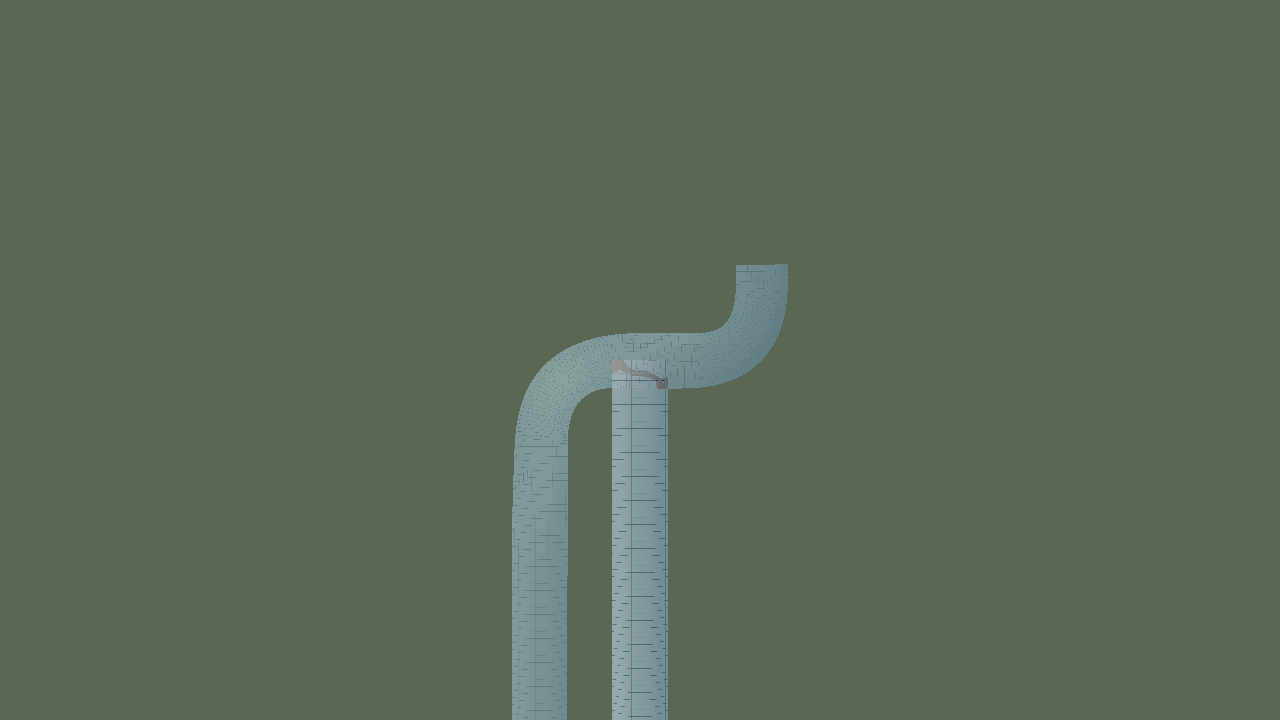
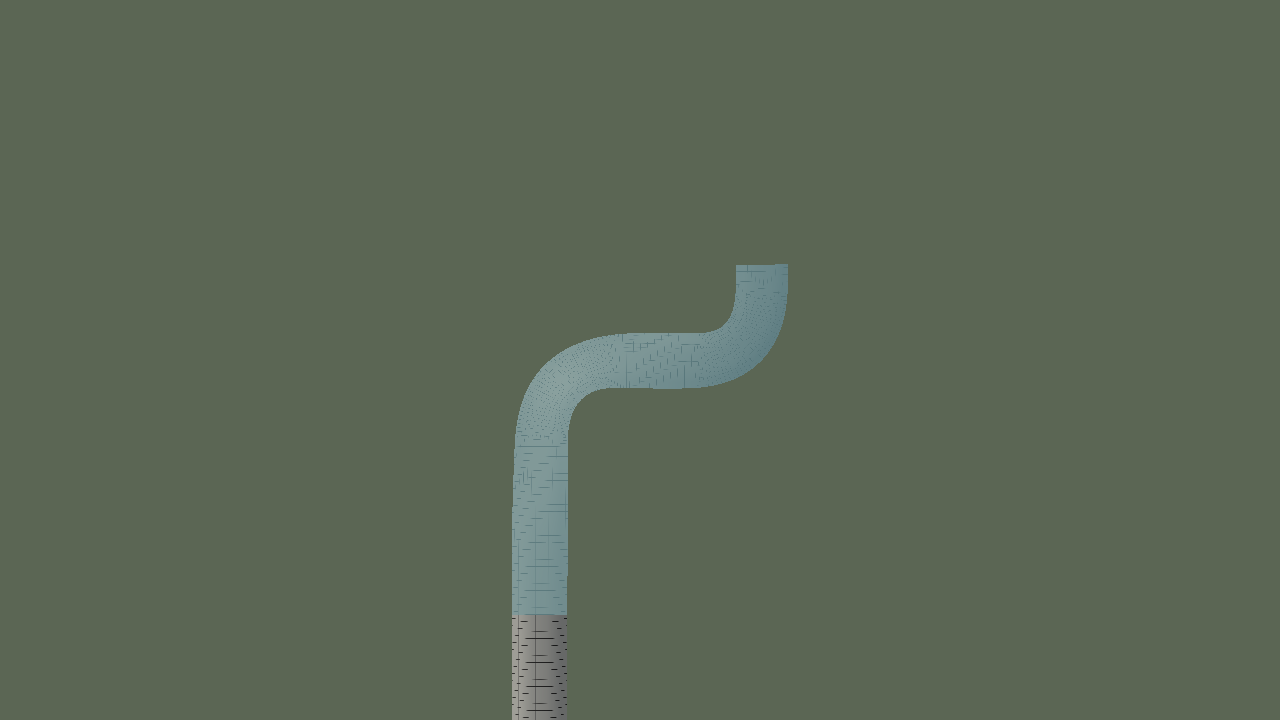
L229 addendum, pane A (L): the picture fault was the render framing; his two projects' undo files carry the typed numbers
Claude-Session: https://claude.ai/code/session_01VfXiVUfSFUgXKGxq8cWziQ

Changed region(s): [[0.375, 0.5194, 0.5312, 1.0]]

diff --git a/exo_memory/handback/p-l229-A_2026-11-25_evidence/made_files.js b/exo_memory/handback/p-l229-A_2026-11-25_evidence/made_files.js
@@ -1,0 +1,122 @@
+// made_files.js (pane A, L229 items 1-2): give his two saved projects' undo files their typed values.
+//   node made_files.js stage  <stage dir>        lay each project through the BRANCH build's panel (typed as he would), compare to the track file on disk byte for byte, save into <stage dir>
+//   node made_files.js prove  <app data dir>     open each project from there with the branch build, undo, print the boxes; Extend; compare bytes with the file
+//   node made_files.js old    <app data dir>     open each project with the INSTALLED build (27e2084, extracted by git archive), say what it does
+// Nothing here writes into <app data dir>.
+'use strict';
+const fs = require('fs'), os = require('os'), path = require('path'), cp = require('child_process'), crypto = require('crypto');
+const T = process.env.TREE || 'C:/Consonance/t180-wt-ghost';
+const D = require(T + '/src/core/document.js');
+const { createCoreShell } = require(T + '/app/core/coreshell.js');
+const sha = (t) => crypto.createHash('sha256').update(t).digest('hex');
+class El {
+  constructor(tag, doc) { this.tagName = tag.toUpperCase(); this.ownerDocument = doc; this.children = []; this.attrs = {}; this.style = {}; this._text = ''; this.listeners = {}; this.value = ''; this.checked = false; this.parent = null; }
+  append(...k) { for (const c of k) { if (c == null) continue; const n = typeof c === 'string' ? Object.assign(new El('#text', this.ownerDocument), { _text: c }) : c; n.parent = this; this.children.push(n); } }
+  replaceChildren(...k) { for (const c of this.children) c.parent = null; this.children = []; this.append(...k); }
+  remove() { if (this.parent) { this.parent.children = this.parent.children.filter((c) => c !== this); this.parent = null; } }
+  setAttribute(k, v) { this.attrs[k] = String(v); if (k === 'id') this.ownerDocument.ids[v] = this; }
+  getAttribute(k) { return this.attrs[k]; }
+  set textContent(t) { this._text = String(t); this.children = []; }
+  get textContent() { return this._text + this.children.map((c) => c.textContent).join(''); }
+  addEventListener(e, f, o) { (this.listeners[e] = this.listeners[e] || []).push({ f, capture: !!(o === true || (o && o.capture)) }); }
+  removeEventListener(e, f) { this.listeners[e] = (this.listeners[e] || []).filter((x) => x.f !== f); }
+  getBoundingClientRect() { return { left: 0, top: 0, width: this.clientWidth || 0, height: this.clientHeight || 0 }; }
+  get isConnected() { return true; }
+  setPointerCapture() {}
+  all() { return [this, ...this.children.flatMap((c) => (c.all ? c.all() : []))]; }
+  fire(type, init) { let stopped = false; const ev = { type, ...init, preventDefault() {}, stopPropagation() { stopped = true; }, stopImmediatePropagation() { stopped = true; } };
+    const ls = (this.listeners[type] || []).slice(), order = ls.filter((l) => l.capture).concat(ls.filter((l) => !l.capture));
+    let n = 0; for (const l of order) { if (stopped) break; n++; l.f(ev); } return n; }
+}
+function fakeWindow() {
+  const doc = { ids: {}, listeners: {}, createElement: (t) => new El(t, doc) };
+  doc.getElementById = (id) => doc.ids[id] || null;
+  doc.addEventListener = (e, f) => { (doc.listeners[e] = doc.listeners[e] || []).push(f); };
+  doc.removeEventListener = (e, f) => { doc.listeners[e] = (doc.listeners[e] || []).filter((x) => x !== f); };
+  doc.dispatchEvent = (ev) => { for (const f of (doc.listeners[ev.type] || []).slice()) f(ev); return true; };
+  const frames = [];
+  const win = { CustomEvent: class { constructor(type, init = {}) { this.type = type; this.detail = init.detail; } }, Option: class { constructor(t, v) { this.textContent = t; this.value = v; } },
+    requestAnimationFrame: (f) => { frames.push(f); return frames.length; }, cancelAnimationFrame: () => {}, setTimeout: () => 0, clearTimeout: () => {} };
+  doc.defaultView = win;
+  return { doc, win, tick: () => { for (let i = 0; i < 3; i++) { const fs = frames.splice(0); for (const f of fs) f(0); } } };
+}
+const panelMod = require(T + '/app/core/panel.js');
+function wire(p) {
+  const { root, shell } = p;
+  p.panel = panelMod.mount(root, shell);
+  const label = (text) => root.all().find((e) => e.tagName === 'LABEL' && e.children[0] && e.children[0].textContent === text);
+  const field = (text) => { const l = label(text); if (!l) throw new Error(`no "${text}" field`); return l.children[1]; };
+  const byAria = (a) => { const f = root.all().find((e) => e.attrs && e.attrs['aria-label'] === a); if (!f) throw new Error(`no element labelled "${a}"`); return f; };
+  Object.assign(p, { field, byAria, type: (t, v) => { const f = field(t); f.value = String(v); f.oninput(); }, set: (f, v) => { f.value = String(v); (f.oninput || f.onchange)(); }, tick2: (b, on) => { b.checked = on; b.onchange(); },
+    button: (t) => root.all().find((e) => e.tagName === 'BUTTON' && e.textContent === t) });
+  return p;
+}
+// one piece typed as he would (pane O's route.js `piece`, without removing the rows afterwards: Undo must give them back)
+function typePiece(p, s) {
+  p.set(p.byAria('turn and climb as'), s.as || 'corner');
+  p.type('length m', s.L); p.type((s.as || 'corner') === 'rate' ? 'turn °/100m' : 'turn °', s.turn === undefined ? '' : s.turn); p.type('bank °', s.bank === undefined ? '' : s.bank);
+  if (s.flow) { p.tick2(p.byAria('bank flows through its marks'), true); p.set(p.byAria('bank at'), s.at === undefined ? '' : s.at); }
+  for (const [f, then, from] of s.rows || []) p.panel.secondAdd(f, { then: String(then), from: String(from) });
+}
+const PROJECTS = {
+  'Smooth S as driven L': [{ L: 300, turn: 0, bank: -20, flow: true, at: 80, rows: [['turn', 92, 80], ['turn', -91, 200], ['bank', -27, 145], ['bank', 0, 200], ['bank', 25, 255], ['bank', 26, 300]] }, { L: 150, bank: 0, flow: true, at: 100 }],
+  'Smooth S flow L': [{ L: 200, turn: 176, bank: -27, flow: true, at: 55, rows: [['turn', -176, 80], ['bank', 0, 112], ['bank', 26, 157]] }, { L: 150, bank: 0, flow: true, at: 100 }],
+};
+const dir = (a, sub) => path.join(a, sub);
+function folderStorage(app, write) {
+  const f = (n, e) => path.join(app, 'tracks', n + e);   // the shell names its files eq-<name> itself
+  return { openDoc: async (n) => fs.readFileSync(f(n, '.t180track'), 'utf8'), openUndo: async (n) => (fs.existsSync(f(n, '.t180undo')) ? fs.readFileSync(f(n, '.t180undo'), 'utf8') : null),
+    saveDoc: async (n, t) => { if (!write) throw new Error('read only'); fs.mkdirSync(path.join(app, 'tracks'), { recursive: true }); fs.writeFileSync(f(n, '.t180track'), t); },
+    saveUndo: async (n, t) => { if (!write) throw new Error('read only'); fs.mkdirSync(path.join(app, 'tracks'), { recursive: true }); fs.writeFileSync(f(n, '.t180undo'), t); },
+    savePiece: async () => {}, openPiece: async () => '', listPieces: async () => [], deletePiece: async () => {}, listDocs: async () => [],
+    saveAutosave: async () => {}, clearAutosave: async () => {}, openAutosave: async () => null, backupDoc: async () => {}, listBackups: async () => [], docSavedAt: async () => null };
+}
+const [mode, appArg, extra] = process.argv.slice(2);
+(async () => {
+  if (mode === 'stage') {
+    for (const [name, specs] of Object.entries(PROJECTS)) {
+      const st = folderStorage(appArg, true), { doc, tick } = fakeWindow(); const root = doc.createElement('div');
+      const shell = await createCoreShell({ brushFn: null, storage: st, autosaveMs: 0 });
+      // the lead is the file's own first piece (its document is named 'flow', which a fresh shell's is not): a seed holding just it, then the rest is typed
+      const diskDoc = D.parse(fs.readFileSync(path.join(extra, 'tracks', 'eq-' + name + '.t180track'), 'utf8')); fs.mkdirSync(path.join(appArg, 'tracks'), { recursive: true });
+      fs.writeFileSync(path.join(appArg, 'tracks', 'eq-seed.t180track'), D.serialize({ ...diskDoc, pieces: diskDoc.pieces.slice(0, 1), nextId: 2 })); await shell.open('seed');
+      const p = wire({ doc, tick, root, shell, calls: [] }); for (const s of specs) { typePiece(p, s); p.button('Extend').onclick(); }
+      const disk = fs.readFileSync(path.join(extra, 'tracks', 'eq-' + name + '.t180track'), 'utf8');
+      console.log(`${name}: laid ${D.parse(shell.text()).pieces.length} pieces; sha256 laid ${sha(shell.text()).slice(0, 12)} | file on disk ${sha(disk).slice(0, 12)} | same bytes: ${shell.text() === disk}`);
+      if (shell.text() !== disk) { fs.writeFileSync(path.join(os.tmpdir(), 'laid_' + name.replace(/ /g, '_') + '.txt'), shell.text()); const a = D.parse(shell.text()).pieces, b = D.parse(disk).pieces; console.log('  pieces equal by JSON:', a.map((x, i) => JSON.stringify(x) === JSON.stringify(b[i]))); throw new Error('not the same bytes; stop'); }
+      await shell.save(name);
+    }
+  }
+  if (mode === 'prove') {
+    for (const name of Object.keys(PROJECTS)) {
+      const disk = fs.readFileSync(path.join(appArg, 'tracks', 'eq-' + name + '.t180track'), 'utf8'), want = D.parse(disk).pieces;
+      for (const undos of [1, 2]) {   // 1: the ease-out comes back; 2: the S comes back (the ease-out goes with it)
+        const st = folderStorage(appArg, false), { doc, tick } = fakeWindow(); const root = doc.createElement('div');
+        const shell = await createCoreShell({ brushFn: null, storage: st, autosaveMs: 0 }); await shell.open(name);
+        const p = wire({ doc, tick, root, shell, calls: [] }); const sent = [], real = shell.extend; shell.extend = (o) => { sent.push(o); return real(o); };
+        if (undos === 1) console.log(name + ': opened ' + want.length + ' pieces, text = file: ' + (shell.text() === disk));
+        for (let k = 0; k < undos; k++) { shell.undo(); tick(); }
+        const val = (t) => { try { return p.field(t).value; } catch (e) { return '?'; } };
+        const rows = p.root.all().filter((e) => e.tagName === 'LABEL' && e.children[0] && /^(then|from|turn change|bank change)/.test(e.children[0].textContent || '')).length;
+        console.log('  after ' + undos + ' undo(s): ' + D.parse(shell.text()).pieces.length + ' pieces; boxes length ' + val('length m') + ', turn ' + val('turn °') + ', bank ' + val('bank °') + '; flow ' + p.byAria('bank flows through its marks').checked + ' at ' + p.byAria('bank at').value);
+        p.button('Extend').onclick();
+        const laid = D.parse(shell.text()).pieces, k = laid.length - 1;
+        console.log('  Extend lays piece ' + (k + 1) + ': identical to the file piece ' + (k + 1) + ': ' + (JSON.stringify(laid[k]) === JSON.stringify(want[k])) + '; sent ' + JSON.stringify(sent.at(-1)).slice(0, 700));
+      }
+    }
+  }
+  if (mode === 'old') {
+    const dirT = fs.mkdtempSync(path.join(os.tmpdir(), 'inst-27e2084-')); const tarF = path.join(dirT, 'i.tar');
+    try {
+      cp.execFileSync('git', ['-C', T, 'archive', '--format=tar', '-o', tarF, '27e2084', 'app', 'src', 'tools', 'package.json']); cp.execFileSync('tar', ['-xf', 'i.tar'], { cwd: dirT });
+      const rel = require(path.join(dirT, 'app/core/coreshell.js'));
+      for (const name of Object.keys(PROJECTS)) {
+        const side = JSON.parse(fs.readFileSync(path.join(appArg, 'tracks', 'eq-' + name + '.t180undo'), 'utf8'));
+        const shell = await rel.createCoreShell({ brushFn: null, storage: folderStorage(appArg, false), autosaveMs: 0 }); await shell.open(name);
+        const s = shell.getState(), disk = fs.readFileSync(path.join(appArg, 'tracks', 'eq-' + name + '.t180track'), 'utf8');
+        console.log(name + ': undo file keys [' + Object.keys(side).join(',') + '], made slots ' + (side.made ? side.made.filter(Boolean).length : 0) + '; INSTALLED build opened: ' + D.parse(shell.text()).pieces.length + ' pieces, text = file ' + (shell.text() === disk) + ', history past ' + s.history.past.length + ' future ' + s.history.future.length + ', message ' + JSON.stringify(s.message));
+        shell.undo(); shell.undo(); shell.redo(); console.log('  undo, undo, redo works: pieces now ' + D.parse(shell.text()).pieces.length);
+      }
+    } finally { fs.rmSync(dirT, { recursive: true, force: true }); }
+  }
+})().catch((e) => { console.error('FAILED', e.stack); process.exit(1); });

diff --git a/exo_memory/handback/p-l229-A_2026-11-25_evidence/render3.js b/exo_memory/handback/p-l229-A_2026-11-25_evidence/render3.js
@@ -1,0 +1,72 @@
+// render3.js (L229 pane A: render2.js with ONE camera from docs[0]; the original framed each document on its own road). Was render2.js: render saved attempts with the builder's OWN road mesh (src/geom/mesh.js buildMesh: the cup, the width, the cells the export
+// writes) through the look-match rasteriser (src/lookmatch/raster.js renderView, the preview's shading and fog). Two views per attempt:
+//   view  his screenshot's chase view: 55 m behind measured d 400 and 42 m up, aimed at d 530, 62° across (as render.js, the last lap)
+//   top   from above, the run-in pointing up the image, one scale for every attempt (SCALE m per image height)
+// The default export carries no texture (src/doc/textures.js: "v1 ships no textures of its own"), so the road wears t180b_road's
+// plain colour, as it would in AC. usage: node render2.js <t180 tree> <docs.json> <out dir> [prefix] [mirror 0|1]
+require('os').setPriority(process.pid, require('os').constants.priority.PRIORITY_BELOW_NORMAL);
+const path = require('path'), fs = require('fs'), zlib = require('zlib');
+const [tree, docsFile, outDir, prefix = 'r', mirrorArg = '0'] = process.argv.slice(2), MIRROR = mirrorArg === '1';
+const R = (p) => require(path.join(tree, p)), A = R('src/core/adapter.js'), { buildMesh } = R('src/geom/mesh.js'), { renderView } = R('src/lookmatch/raster.js');
+const { encodePng } = R('src/texture/png.js');
+const LEAD = 300, D0 = 340, W = 1280, H = 720, SCALE = +(process.env.SCALE || 420);
+const sub = (a, b) => [a[0] - b[0], a[1] - b[1], a[2] - b[2]], add = (a, b, k = 1) => [a[0] + b[0] * k, a[1] + b[1] * k, a[2] + b[2] * k];
+const mul = (a, b) => { const o = new Array(16).fill(0); for (let i = 0; i < 4; i++) for (let j = 0; j < 4; j++) for (let k = 0; k < 4; k++) o[i * 4 + j] += a[i * 4 + k] * b[k * 4 + j]; return o; };
+const I4 = [1, 0, 0, 0, 0, 1, 0, 0, 0, 0, 1, 0, 0, 0, 0, 1];
+// the scene in world space, as kn5scene gives it: meshes {name, material, pos, nrm, uv, idx}; materials with props and samplers as objects
+function worldScene(scene) {
+  const meshes = [], fx = MIRROR ? -1 : 1;
+  (function visit(n, M) {
+    if (n.type === 'dummy') { const W2 = mul(n.matrix, M); for (const c of n.children || []) visit(c, W2); return; }
+    if (n.type !== 'mesh') throw new Error(`render2: node ${n.name} of type ${n.type}`);
+    const p = n.positions, q = n.normals, k = p.length / 3, pos = new Float64Array(p.length), nrm = new Float64Array(p.length);
+    for (let v = 0; v < k; v++) {
+      const x = p[v * 3], y = p[v * 3 + 1], z = p[v * 3 + 2], a = q[v * 3], b = q[v * 3 + 1], c = q[v * 3 + 2];
+      pos[v * 3] = fx * (x * M[0] + y * M[4] + z * M[8] + M[12]); pos[v * 3 + 1] = x * M[1] + y * M[5] + z * M[9] + M[13]; pos[v * 3 + 2] = x * M[2] + y * M[6] + z * M[10] + M[14];
+      nrm[v * 3] = fx * (a * M[0] + b * M[4] + c * M[8]); nrm[v * 3 + 1] = a * M[1] + b * M[5] + c * M[9]; nrm[v * 3 + 2] = a * M[2] + b * M[6] + c * M[10];
+    }
+    let idx = n.indices; if (MIRROR) { idx = Array.from(idx); for (let t = 0; t < idx.length; t += 3) [idx[t + 1], idx[t + 2]] = [idx[t + 2], idx[t + 1]]; }
+    meshes.push({ name: n.name, material: n.material, pos, nrm, uv: n.uvs, idx });
+  })(scene.root, I4);
+  const materials = scene.materials.map((m) => ({ name: m.name, shader: m.shader, alphaTested: m.alphaTested,
+    props: Object.fromEntries(m.props.map((p) => [p.name, p.name === 'ksEmissive' ? [0, 0, 0, ...p.value] : p.value])),
+    samplers: GRID ? { txDiffuse: 'reading-grid' } : Object.fromEntries((m.samplers || []).map((s) => [s.name, s.texture])) }));
+  return { meshes, materials };
+}
+// GRID=1: a READING GRID on the mesh's own uvs (u and v run 1 per 10 m, as mesh.js lays them): a thin line every 2.5 m each way,
+// a heavier one every 10 m, so the cup and the bank read in a still picture. It is NOT the export's look: the export wears no texture.
+const GRID = process.env.GRID === '1', textures = new Map();
+if (GRID) {
+  const N = 256, rgba = new Uint8Array(N * N * 4);
+  for (let y = 0; y < N; y++) for (let x = 0; x < N; x++) {
+    const o = (y * N + x) * 4, major = x < 3 || y < 3, minor = x % 64 < 2 || y % 64 < 2, c = major ? 40 : minor ? 95 : 200;
+    rgba[o] = c; rgba[o + 1] = c; rgba[o + 2] = major ? c : minor ? c : 190; rgba[o + 3] = 255;
+  }
+  textures.set('reading-grid', { width: N, height: N, rgba });
+}
+// CAM="dEye,back,up,dTarget,hfov": his screenshot's chase view (default 445,22,20,505,75); measured d along the road
+const [cE, cB, cU, cT, cF] = (process.env.CAM || '445,22,20,505,75').split(',').map(Number);
+const sky = [0.62, 0.70, 0.78], ground = [0.36, 0.40, 0.33];
+function png(img, file, over) {
+  const rgba = Buffer.alloc(W * H * 4);
+  for (let y = 0; y < H; y++) for (let x = 0; x < W; x++) {
+    const i = (y * W + x) * 4, bg = over === 'top' ? ground : sky;
+    if (img.rgba[i + 3]) { rgba[i] = img.rgba[i]; rgba[i + 1] = img.rgba[i + 1]; rgba[i + 2] = img.rgba[i + 2]; } else { rgba[i] = bg[0] * 255; rgba[i + 1] = bg[1] * 255; rgba[i + 2] = bg[2] * 255; }
+    rgba[i + 3] = 255;
+  }
+  fs.writeFileSync(file, encodePng({ width: W, height: H, rgba }, (b) => zlib.deflateSync(b)));
+}
+fs.mkdirSync(outDir, { recursive: true });
+const docs = require(path.resolve(docsFile)); const camTp = A.toPath(docs[0].doc, { step: 0.5 });   // L229 pane A: ONE camera for every picture, taken from the first (whole) document, so a shorter road is not re-framed
+docs.forEach((a, k) => {
+  const tp = A.toPath(a.doc, { step: 0.5 }), mesh = buildMesh(tp.path, tp.segments, {}), sc = worldScene(mesh.scene);
+  const S = camTp.path.samples, at = (d) => { const s = S.reduce((p, q) => (Math.abs(q.s - (d - D0 + LEAD)) < Math.abs(p.s - (d - D0 + LEAD)) ? q : p)); return MIRROR ? { pos: [-s.pos[0], s.pos[1], s.pos[2]], T: [-s.T[0], s.T[1], s.T[2]] } : s; };
+  const c0 = at(cE), tgt = at(cT).pos, eye = add(add(c0.pos, c0.T, -cB), [0, 1, 0], cU);
+  const v1 = renderView(sc, { eye, target: tgt, up: [0, 1, 0], fovDeg: 2 * Math.atan(Math.tan((cF / 2) * Math.PI / 180) * H / W) * 180 / Math.PI, width: W, height: H }, { fogDensity: 0.0008, textures });
+  png(v1, path.join(outDir, `${prefix}${k}_view.png`), 'view');
+  // from above: centred on the stretch's middle, the run-in's direction up the image; fov so that SCALE m spans the image's height from 900 m up
+  const mid = at(528).pos, run = at(380).T, up = [run[0], 0, run[2]], h = 900, fov = 2 * Math.atan(SCALE / 2 / h) * 180 / Math.PI;
+  const v2 = renderView(sc, { eye: [mid[0], mid[1] + h, mid[2]], target: mid, up, fovDeg: fov, width: W, height: H }, { fogDensity: 0, textures });
+  png(v2, path.join(outDir, `${prefix}${k}_top.png`), 'top');
+  console.log(`${prefix}${k} ${a.name}: ${sc.meshes.length} meshes, view drew ${v1.stats.drawn} of ${v1.stats.triangles}, top ${v2.stats.drawn}`);
+});

diff --git a/exo_memory/handback/p-l229-A-addendum_2026-11-25.md b/exo_memory/handback/p-l229-A-addendum_2026-11-25.md
@@ -1,0 +1,32 @@
+# L229 addendum, pane A (L, Sonnet 5.5): the picture fault, and his two projects' undo files carry the numbers
+
+BASE: C:\Consonance\t180-wt-ghost 2e70b9f
+
+## 1. The picture fault of Part 1: it was the framing, not the ghost's place (checked)
+In `l229_after2_*` the ghost S did not start at the end of the lead. **The composite's two renders were framed differently.** `render2.js` aims its camera at points taken from the document it is drawing (`at(528)` clamps to the document's end), so the lead-only render (after two undos) was centred on a different spot than the lead-and-S render it was differenced against.
+- Check: the road's pixel bounding box in the three raw top renders, old: r1 (lead+S) x 512..787, r2 (lead only) **x 612..667**, so the lead moved 100 px between the two; new: r2 **x 512..566**, the lead where it is in r1 and r0.
+- The ghost itself was never misplaced: `undo-ghost-panel.test.js` P1 runs the preview's own `ghostFor` on `st.undoGhost.candidate`, which refuses any candidate that does not start with the placed road's own segments (inferred: that this covers the join; the test passes).
+- Fix: `render3.js` (render2.js with ONE camera from the first, whole, document) and the composites remade. **Looked at:** `l229_after2_top.png` now shows the placed lead (grey) ending where the ghost S (blue) begins. `l229_after2_view.png` is the chase view of the whole camera path, which starts past the lead, so the lead is out of its frame and the join is not in it: it shows the S ghost alone, correctly. `after1` pictures were unaffected (r0 and r1 share a frame; their boxes match, x 512).
+
+## 2. The two projects' undo files carry the values (checked: `exo_memory/handback/p-l229-A_2026-11-25_evidence/made_files.js`)
+Before: his app is open; the track files had not changed since my last read (checked: sha256 `459105d4…` driven, `8abe6116…` flow, the L227/L228 values; mtimes 01:24:00 and 01:12:02 as before). The present sidecars kept first in `before_made_sidecars/` (sha256 `14e0710c…` driven, `72046a65…` flow; the same as L228's `after_sidecars`).
+
+**Laid through the shell, typed as he would:** the branch build's panel, with the lead taken from each file's own first piece, then each piece typed into the boxes and Extend pressed: the driven S (300 m, turn 0, bank −20 flowing from 80, turn rows +92 from 80 and −91 from 200, bank rows −27, 0, 25, 26 at 145, 200, 255, 300) then the ease-out (150 m, bank 0 flowing from 100); route 1c's two pieces (200 m, turn 176, bank −27 from 55, rows −176 from 80, 0 at 112, 26 at 157; then the ease-out). The laid documents are **byte for byte the files on disk** (`same bytes: true` for both: sha256 `459105d483b9…` and `8abe61160c4f…`), then saved with the shell's own `save`, which wrote each `.t180undo` with a `made` array (the lead's slot null, the other two filled).
+- The track files are untouched (checked: sha256 `track_sha_before_made.txt` and `track_sha_after_made.txt`: the two `.t180track` lines identical). Only the two `.t180undo` files changed: new sha256 `fdb748f8…` (driven) and `7a41f663…` (flow), copies in `after_made_sidecars/`. No other file was written into his folder (the stage seed was in a temp folder).
+
+**The load path of the branch build** (checked: `node made_files.js prove "$APPDATA/com.solariz3d.t180-track-builder"`, read only; `shell.open`, `undo`, the panel's boxes, `Extend`):
+| project | after 1 undo: boxes | Extend lays | after 2 undos: boxes | Extend lays |
+|---|---|---|---|---|
+| Smooth S as driven L | length 150, bank 0, flow at 100 | the file's piece 3, identical | length 300, turn 0, bank −20, flow at 80 | the file's piece 2, identical |
+| Smooth S flow L | length 150, bank 0, flow at 100 | the file's piece 3, identical | length 200, turn 176, bank −27, flow at 55 | the file's piece 2, identical |
+The call Extend sent for the S carries all its rows: `turnDeg: 0`, `changes.turnDeg [{from 80, deg 92}, {from 200, deg −91}]`, `through.phi` at 145, 200, 255, 300, `transition.phi 80` (printed in full by the run). For the flow project `turnDeg 176`, `changes.turnDeg [{from 80, deg −176}]`, `through.phi` at 112 and 157, `transition.phi 55`. The boxes' extra rows are not printed by the run; they are shown by the sent options (inferred: the rows are restored because the options carrying them are what Extend sent).
+
+**What the INSTALLED build (27e2084) does with these two files** (checked: `node made_files.js old …`, the build extracted by `git archive 27e2084` and run): both open as before: 3 pieces, text equal to the file, history past 2 future 0, no message; undo, undo, redo work. The unknown `made` field is **ignored, not refused**, shown on the two real files (R8 shown on the test file; this is these two). inferred: that his app, which is open, will not rewrite them unasked; if he Saves a project in the INSTALLED build, its writer writes the history without `made` and the numbers are gone for that project (the track file is the same).
+
+## 3. Step 6's fill gate stays NOT built, as ruled. By R9 a fill from read values would lay a different S (turns +90.8 and −90.0 against +92 and −91, bank −16.97 against −20 at 80 m), so I did not build it.
+
+## Not checked
+The app with the branch build: his open app runs 27e2084. The boxes-and-ghost picture (R5's second part) is still not made (no panel renderer). The branch is not merged; pane B's second read comes after its landing.
+
+SOURCES: p-l229-A_2026-11-25_evidence/{made_files.js, render3.js, track_sha_before_made.txt, track_sha_after_made.txt, before_made_sidecars.sha, renders/}, the runs above, exo_memory/loop/ (the librarian's order)
+NEXT: librarian show him the repaired after2 top picture and tell him the two projects now open with their numbers once he reopens them in the branch build (the installed one ignores them); pane B read git diff 27e2084..2e70b9f after its landing
